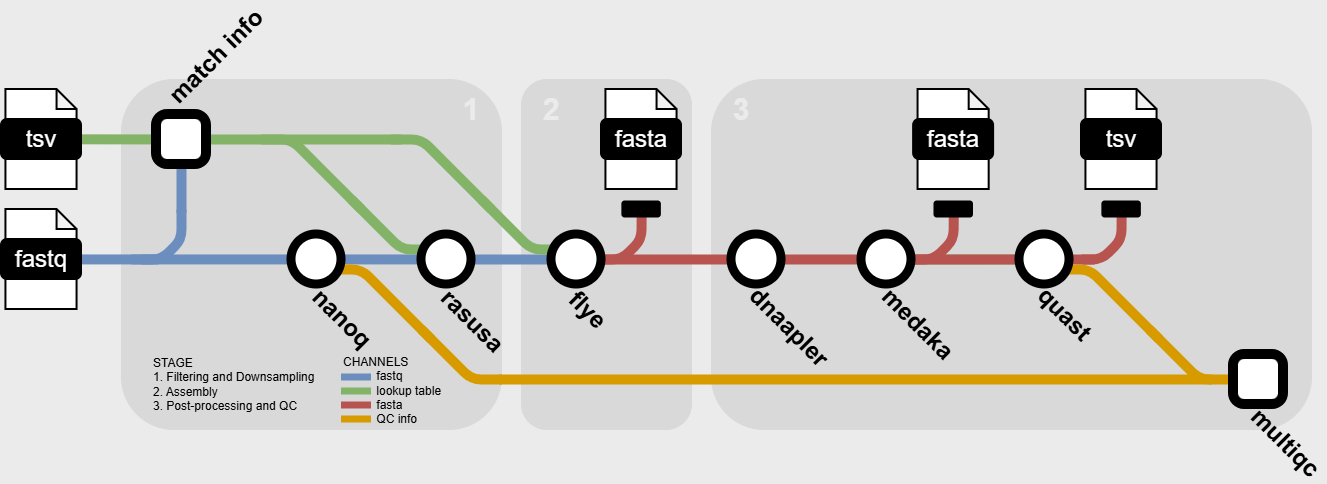
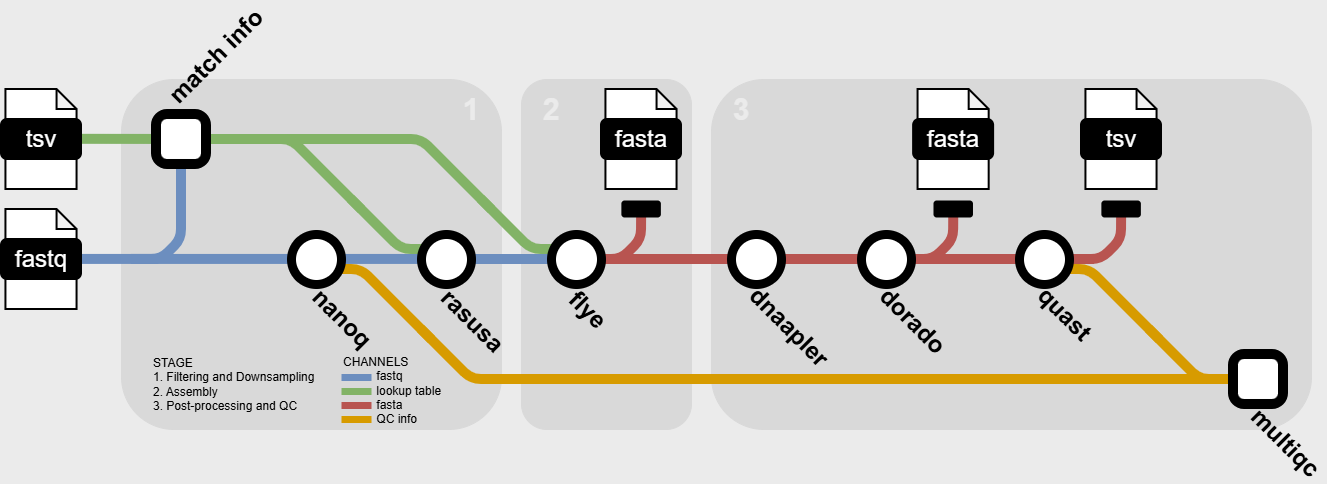
replaced medaka with dorado polish in documentation

diff --git a/docs/usage.md b/docs/usage.md
@@ -100,57 +100,21 @@ If the model parameter is left blank, the pipeline will choose the bacterial met
 It's best to let the pipleine use the bacterial methylation model, but if you must specify the model parameter make sure to use one of the models from the following list
 
 ```
-r103_sup_g507
-r1041_e82_260bps_fast_g632
-r1041_e82_260bps_hac_g632
-r1041_e82_260bps_hac_v4.0.0
-r1041_e82_260bps_hac_v4.1.0
-r1041_e82_260bps_joint_apk_ulk_v5.0.0
-r1041_e82_260bps_sup_g632
-r1041_e82_260bps_sup_v4.0.0
-r1041_e82_260bps_sup_v4.1.0
-r1041_e82_400bps_bacterial_methylation
-r1041_e82_400bps_fast_g615
-r1041_e82_400bps_fast_g632
-r1041_e82_400bps_hac_g615
-r1041_e82_400bps_hac_g632
-r1041_e82_400bps_hac_v4.0.0
-r1041_e82_400bps_hac_v4.1.0
-r1041_e82_400bps_hac_v4.2.0
-r1041_e82_400bps_hac_v4.3.0
-r1041_e82_400bps_hac_v5.0.0
-r1041_e82_400bps_hac_v5.0.0_rl_lstm384_dwells
-r1041_e82_400bps_hac_v5.0.0_rl_lstm384_no_dwells
-r1041_e82_400bps_hac_v5.2.0
-r1041_e82_400bps_hac_v5.2.0_rl_lstm384_dwells
-r1041_e82_400bps_hac_v5.2.0_rl_lstm384_no_dwells
-r1041_e82_400bps_sup_g615
-r1041_e82_400bps_sup_v4.0.0
-r1041_e82_400bps_sup_v4.1.0
-r1041_e82_400bps_sup_v4.2.0
-r1041_e82_400bps_sup_v4.3.0
-r1041_e82_400bps_sup_v5.0.0
-r1041_e82_400bps_sup_v5.0.0_rl_lstm384_dwells
-r1041_e82_400bps_sup_v5.0.0_rl_lstm384_no_dwells
-r1041_e82_400bps_sup_v5.2.0
-r1041_e82_400bps_sup_v5.2.0_rl_lstm384_dwells
-r1041_e82_400bps_sup_v5.2.0_rl_lstm384_no_dwells
-r104_e81_fast_g5015
-r104_e81_hac_g5015
-r104_e81_sup_g5015
-r104_e81_sup_g610
-r941_e81_fast_g514
-r941_e81_hac_g514
-r941_e81_sup_g514
-r941_min_fast_g507
-r941_min_hac_g507
-r941_min_sup_g507
-r941_prom_fast_g507
-r941_prom_hac_g507
-r941_prom_sup_g507
+dna_r10.4.1_e8.2_400bps_fast@v5.2.0
+dna_r10.4.1_e8.2_400bps_hac@v5.2.0
+dna_r10.4.1_e8.2_400bps_sup@v5.2.0
+dna_r10.4.1_e8.2_400bps_fast@v5.0.0
+dna_r10.4.1_e8.2_400bps_hac@v5.0.0
+dna_r10.4.1_e8.2_400bps_sup@v5.0.0
+dna_r10.4.1_e8.2_400bps_fast@v4.3.0
+dna_r10.4.1_e8.2_400bps_hac@v4.3.0
+dna_r10.4.1_e8.2_400bps_sup@v4.3.0
+dna_r10.4.1_e8.2_400bps_fast@v4.2.0
+dna_r10.4.1_e8.2_400bps_hac@v4.2.0
+dna_r10.4.1_e8.2_400bps_sup@v4.2.0
 ```
 
-for more details about model selection in medaka, see [medaka model documentation](https://github.com/nanoporetech/medaka/tree/366ff49ad9e2be6862e376630b51b3b3d28944c2#models)
+for more details about model selection in dorado, see [dorado model documentation](https://software-docs.nanoporetech.com/dorado/latest/models/models/)
 
 
 ## Core Nextflow arguments
@@ -176,8 +140,8 @@ If `-profile` is not specified, the pipeline will run locally and expect all sof
 
 - `singularity`
   - A generic configuration profile to be used with [Singularity](https://sylabs.io/docs/)
-- `rosalind`
-  - A CDC server specific configuration profile for running jobs on the cluster using [Singularity](https://sylabs.io/docs/)
+- `docker`
+  - A generic configuration profile to be used with [Docker](https://docs.docker.com/)
 
 ### `-resume`
 

diff --git a/paper/paper.md b/paper/paper.md
@@ -50,7 +50,7 @@ bibliography: paper.bib
 
 # Summary
 
-Oxford Nanopore Technologies (ONT) sequencing is a promising technology with many potential applications in food safety. We have developed stylo, a lightweight nf-core style assembly workflow for ONT long-reads, specifically optimized for enteric bacteria. The pipeline downsamples, assembles, and performs post-processing and quality control by combining nanoq [@Steinig2022], Rasusa [@Hall2022], Flye [@Kolmogorov2019], Dnaapler [@Bouras2024], Medaka [@medaka], and QUAST [@Mikheenko2018].  All of stylo’s dependencies are containerized and the pipeline is available on GitHub. 
+Oxford Nanopore Technologies (ONT) sequencing is a promising technology with many potential applications in food safety. We have developed stylo, a lightweight nf-core style assembly workflow for ONT long-reads, specifically optimized for enteric bacteria. The pipeline downsamples, assembles, and performs post-processing and quality control by combining nanoq [@Steinig2022], Rasusa [@Hall2022], Flye [@Kolmogorov2019], Dnaapler [@Bouras2024], Dorado [@dorado], and QUAST [@Mikheenko2018].  All of stylo’s dependencies are containerized and the pipeline is available on GitHub. 
 
 # Statement of Need
 
@@ -66,9 +66,9 @@ Since stylo is lightweight, it can be run in automated disease surveillance sett
 
 3. Assembly: Flye is run on the subsampled fastq using the "--nano-hq" mode by default, expecting high-quality ONT reads. This parameter can be changed by the user. 
 
-4. Post-processing and Quality Control: The pipeline uses "dnaapler all" to reorient contigs to begin at a specific genes. The pipeline then uses Medaka to correct assembly sequences. Finally, the assembly quality is assessed via QUAST with the following speedup options: "--no-check", "--no-plots", "--no-html", "--no-icarus", "--no-snps", "--no-sv".
+4. Post-processing and Quality Control: The pipeline uses "dnaapler all" to reorient contigs to begin at a specific genes. The pipeline then uses "dorado polish" using "--bacteria" to correct assembly sequences. Finally, the assembly quality is assessed via QUAST with the following speedup options: "--no-check", "--no-plots", "--no-html", "--no-icarus", "--no-snps", "--no-sv".
 
-5. Output: The pipeline outputs files for each step. Some key files are the assembly by Flye, the final corrected assembly by Medaka, and the quality control summary by QUAST. Additionally, MultiQC is run to generate an html report summarizing nanoq and QUAST outputs. 
+5. Output: The pipeline outputs files for each step. Some key files are the assembly by Flye, the final corrected assembly by Dorado, and the quality control summary by QUAST. Additionally, MultiQC is run to generate an html report summarizing nanoq and QUAST outputs. 
 
 ![Diagram of stylo steps.](stylo_tubemap.png)
 

diff --git a/docs/output.md b/docs/output.md
@@ -14,7 +14,7 @@ The pipeline is built using [Nextflow](https://www.nextflow.io/) and processes d
 - [Rasusa](#rasusa) - Read Downsampling
 - [Flye](#flye) - Assembly
 - [Dnaapler](#dnaapler) - Reorientation of contigs
-- [Medaka](#medaka) - Assembly error correction
+- [Dorado polish](#dorado-polish) - Assembly error correction
 - [QUAST](#quast) - Assembly QC
 - [Pipeline information](#pipeline-information) - Report metrics generated during the workflow execution
 
@@ -75,17 +75,18 @@ Fast and accurate de novo assembler for single molecule sequencing reads. For fu
 
 For further reading and documentation see [dnaapler usage](https://github.com/gbouras13/dnaapler?tab=readme-ov-file#usage).
 
-### Medaka
+### Dorado polish
 
 <details markdown="1">
 <summary>Output files</summary>
 
-- `medaka/`
-  - `*.fa.gz`: Error corrected assembly
+- `dorado_polish/`
+  - `*_model.log`: basecall and polish models used
+  - `*.fasta.gz`: Error corrected assembly
 
 </details>
 
-Neural network sequence error correction. For further reading and documentation see [medaka usage](https://github.com/nanoporetech/medaka?tab=readme-ov-file#usage).
+Neural network sequence error correction. For further reading and documentation see [dorado usage](https://software-docs.nanoporetech.com/dorado/latest/).
 
 ### QUAST
 

diff --git a/CITATIONS.md b/CITATIONS.md
@@ -34,9 +34,9 @@
 
   > George Bouras, Susanna R. Grigson, Bhavya Papudeshi, Vijini Mallawaarachchi, Michael J. Roach (2024). Dnaapler: A tool to reorient circular microbial genomes. Journal of Open Source Software, 9(93), 5968, https://doi.org/10.21105/joss.05968
 
-- [Medaka](https://github.com/nanoporetech/medaka)
+- [Dorado](https://github.com/nanoporetech/dorado)
 
-  > Medaka. Github. (2024). https://github.com/nanoporetech/medaka
+  > Dorado. Github. (2022). https://github.com/nanoporetech/dorado
 
 - [QUAST](https://academic.oup.com/bioinformatics/article/34/13/i142/5045727)
 

diff --git a/README.md b/README.md
@@ -8,7 +8,7 @@
 2. Downsamples reads to specific coverage ([rasusa](https://github.com/mbhall88/rasusa))
 3. Assembles reads ([Flye](https://github.com/mikolmogorov/Flye))
 4. Reorients assembly ([Dnaapler](https://github.com/gbouras13/dnaapler))
-5. Error correction ([Medaka](https://github.com/nanoporetech/medaka))
+5. Error correction ([Dorado polish](https://github.com/nanoporetech/dorado))
 6. QCs assembly ([QUAST](https://github.com/ablab/quast))
 
 ## Usage

diff --git a/docs/CDC.md b/docs/CDC.md
@@ -11,3 +11,5 @@ nextflow run ncezid-biome/stylo \
    --input samplesheet.csv \
    --outdir <OUTDIR>
 ```
+
+Note: on CDC servers the work dir will be in the scratch space
